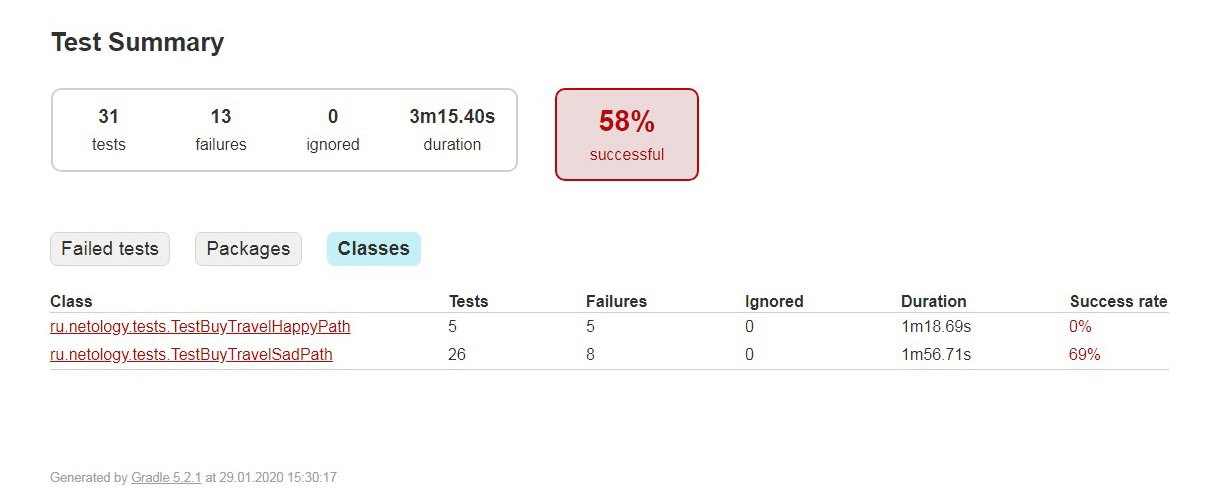
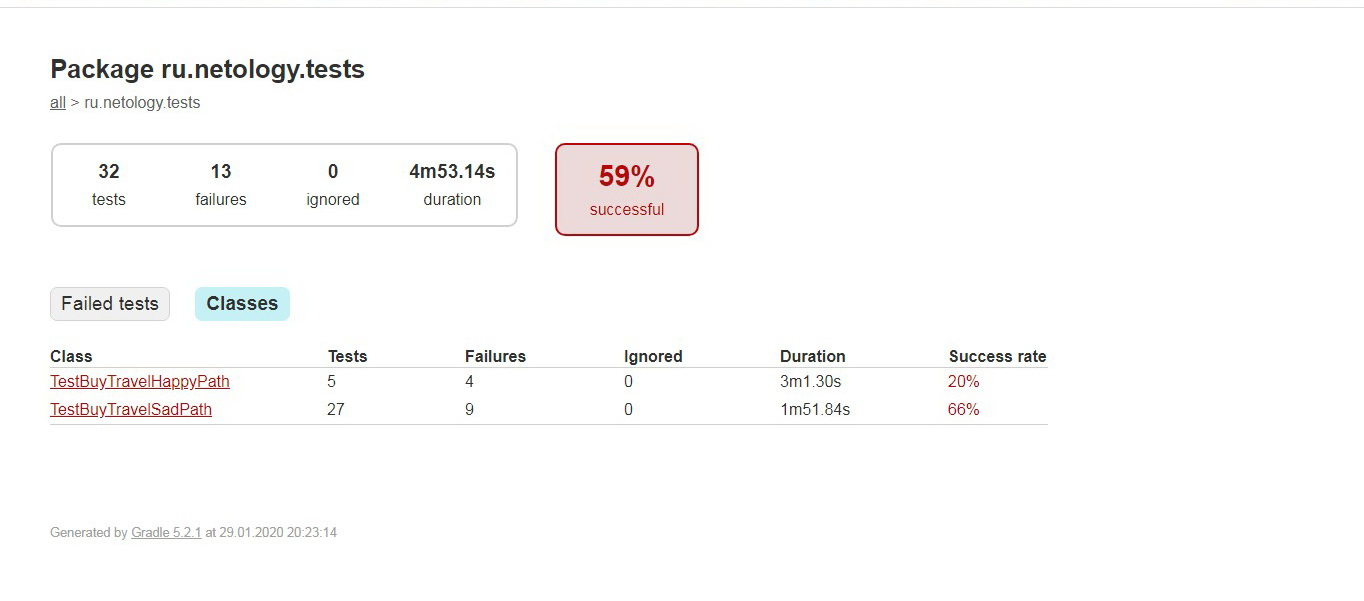
скорректированы тесты и отчеты

diff --git a/src/test/java/ru/netology/data/DataHelperDB.java b/src/test/java/ru/netology/data/DataHelperDB.java
@@ -73,22 +73,22 @@ public class DataHelperDB {
     @Step("Очистка БД")
     public static void clearDB() throws SQLException {
         val runner = new QueryRunner();
-        runner.update(getConnectionDB(), deleteCredit);
         runner.update(getConnectionDB(), deletePayment);
+        runner.update(getConnectionDB(), deleteCredit);
         runner.update(getConnectionDB(), deleteOrder);
     }
 
     @Step("Проверка наличия записи в базе о покупке с выводом статуса карты")
     public static String verifyOrderByPayment() throws SQLException {
         val runner = new QueryRunner();
-        val order = runner.update(getConnectionDB(), verificationOrderByPaymentStatus, new ScalarHandler<>());
+        val order = runner.query(getConnectionDB(), verificationOrderByPaymentStatus, new ScalarHandler<>());
         return String.valueOf(order);
     }
 
     @Step("Проверка наличия записи в базе о покупке в кредит с выводом статуса карты")
     public static String verifyOrderByPaymentByCredit() throws SQLException {
         val runner = new QueryRunner();
-        val order = runner.update(getConnectionDB(), verificationOrderByCreditStatus, new ScalarHandler<>());
+        val order = runner.query(getConnectionDB(), verificationOrderByCreditStatus, new ScalarHandler<>());
         return String.valueOf(order);
     }
 
@@ -119,21 +119,21 @@ public class DataHelperDB {
     @Step("Проверка наличия записей в таблице payment_entity")
     public static void verifyPayment() throws SQLException {
         val runner = new QueryRunner();
-        val data = runner.update(getConnectionDB(), checkPayment, new BeanHandler<>(PaymentDataModel.class));
+        val data = runner.query(getConnectionDB(), checkPayment, new BeanHandler<>(PaymentDataModel.class));
         assertNotNull(data);
     }
 
     @Step("Проверка наличия записей в таблице credit_request_entity")
     public static void verifyCredit() throws SQLException {
         val runner = new QueryRunner();
-        val data = runner.update(getConnectionDB(), checkCredit, new BeanHandler<>(CreditDataModel.class));
+        val data = runner.query(getConnectionDB(), checkCredit, new BeanHandler<>(CreditDataModel.class));
         assertNotNull(data);
     }
 
     @Step("Проверка наличия записей в таблице order_entity")
     public static void verifyOrder() throws SQLException {
         val runner = new QueryRunner();
-        val data = runner.update(getConnectionDB(), checkOrder, new BeanHandler<>(OrderDataModel.class));
+        val data = runner.query(getConnectionDB(), checkOrder, new BeanHandler<>(OrderDataModel.class));
         assertNotNull(data);
     }
 }

diff --git a/src/test/java/ru/netology/tests/TestBuyTravelHappyPath.java b/src/test/java/ru/netology/tests/TestBuyTravelHappyPath.java
@@ -22,7 +22,6 @@ public class TestBuyTravelHappyPath extends TestBase {
         BuyingPage.clickContinueButton();
         BuyingPage.checkMessageSuccessfully();
         DataHelperDB.verifyStatusWithApprovedBuy();
-        DataHelperDB.closeConnectionDB();
     }
 
     @Test
@@ -37,7 +36,6 @@ public class TestBuyTravelHappyPath extends TestBase {
         BuyingPage.clickContinueButton();
         BuyingPage.checkMessageSuccessfully();
         DataHelperDB.verifyStatusWithApprovedByCredit();
-        DataHelperDB.closeConnectionDB();
     }
 
     @Test
@@ -52,7 +50,6 @@ public class TestBuyTravelHappyPath extends TestBase {
         BuyingPage.clickContinueButton();
         BuyingPage.checkMessageError();
         DataHelperDB.verifyStatusWithDeclinedBuy();
-        DataHelperDB.closeConnectionDB();
     }
 
     @Test
@@ -67,22 +64,13 @@ public class TestBuyTravelHappyPath extends TestBase {
         BuyingPage.clickContinueButton();
         BuyingPage.checkMessageError();
         DataHelperDB.verifyStatusWithDeclinedByCredit();
-        DataHelperDB.closeConnectionDB();
     }
 
     @Test
     @DisplayName("Проверка заполнения полей таблиц БД")
     void verifyDB() throws SQLException {
         DataHelperDB.verifyPayment();
-        DataHelperDB.verifyCredit();
         DataHelperDB.verifyOrder();
-        DataHelperDB.closeConnectionDB();
-    }
-
-    @Test
-    @DisplayName("Очистка БД")
-    void clearDB() throws SQLException {
-        DataHelperDB.clearDB();
-        DataHelperDB.closeConnectionDB();
+        DataHelperDB.verifyCredit();
     }
 }

diff --git a/src/test/java/ru/netology/tests/TestBase.java b/src/test/java/ru/netology/tests/TestBase.java
@@ -4,7 +4,10 @@ import com.codeborne.selenide.logevents.SelenideLogger;
 import io.qameta.allure.selenide.AllureSelenide;
 import org.junit.jupiter.api.AfterAll;
 import org.junit.jupiter.api.BeforeAll;
+import ru.netology.data.DataHelperDB;
 import ru.netology.page.BuyingPage;
+
+import java.sql.SQLException;
 
 public class TestBase {
     protected static BuyingPage buyingPage;
@@ -16,7 +19,10 @@ public class TestBase {
     }
 
     @AfterAll
-    protected static void tearDownAll() {
+    protected static void tearDownAll() throws SQLException {
         SelenideLogger.removeListener("allure");
+        DataHelperDB.getConnectionDB();
+        DataHelperDB.clearDB();
+        DataHelperDB.closeConnectionDB();
     }
 }

diff --git a/src/test/java/ru/netology/page/BuyingPage.java b/src/test/java/ru/netology/page/BuyingPage.java
@@ -78,12 +78,12 @@ public class BuyingPage {
 
     @Step("Сообщение об успешной операции")
     public static void checkMessageSuccessfully() {
-        messageSuccessfully.waitUntil(visible, 15000);
+        messageSuccessfully.waitUntil(visible, 60000);
     }
 
     @Step("Сообщение об ошибке при совершении операции")
     public static void checkMessageError() {
-        messageError.waitUntil(visible, 15000);
+        messageError.waitUntil(visible, 60000);
     }
 
     @Step("Сообщение о неверно заполненном поле")

diff --git a/documents/Summary.md b/documents/Summary.md
@@ -2,8 +2,8 @@
 
 ## Что было запланировано и что было сделано
 
-* Запланировано: 31 сценарий
-* Сделано: 31 сценарий
+* Запланировано: 34 сценария
+* Сделано: 34 сценария
 
 ## Причины, по которым что-то не было сделано
 --

diff --git a/documents/Report.md b/documents/Report.md
@@ -20,9 +20,9 @@
 
 ## Количество тест-кейсов
 
-* Всего: 31
-* Успешных: 18 *(58,06%)*
-* Неуспешных: 13 *(41,94%)*
+* Всего: 34
+* Успешных: 20 *(58,82%)*
+* Неуспешных: 14 *(41,18%)*
 
 ![](https://raw.githubusercontent.com/shpilkaQA/diplom/master/documents/pic/allure_1.jpg)
 
